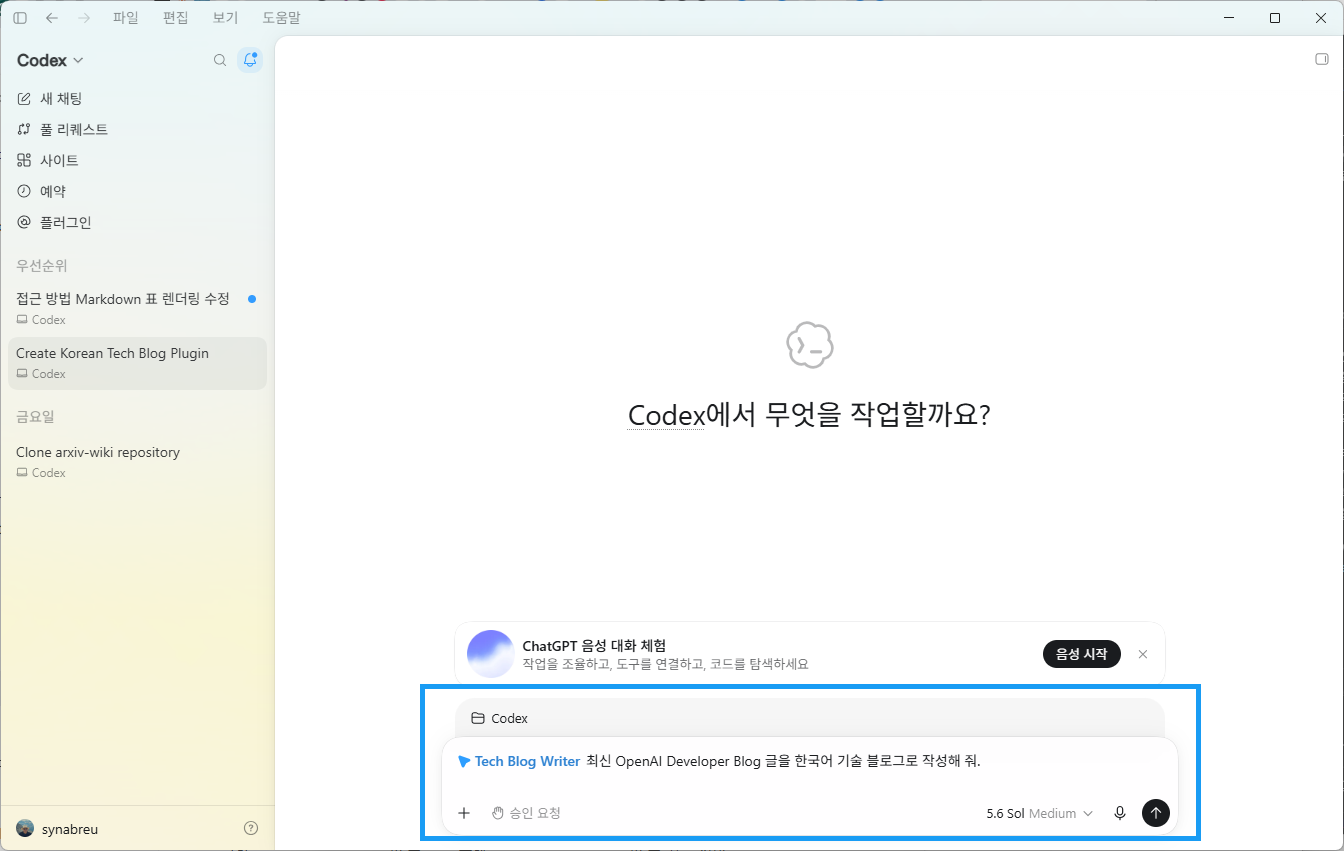
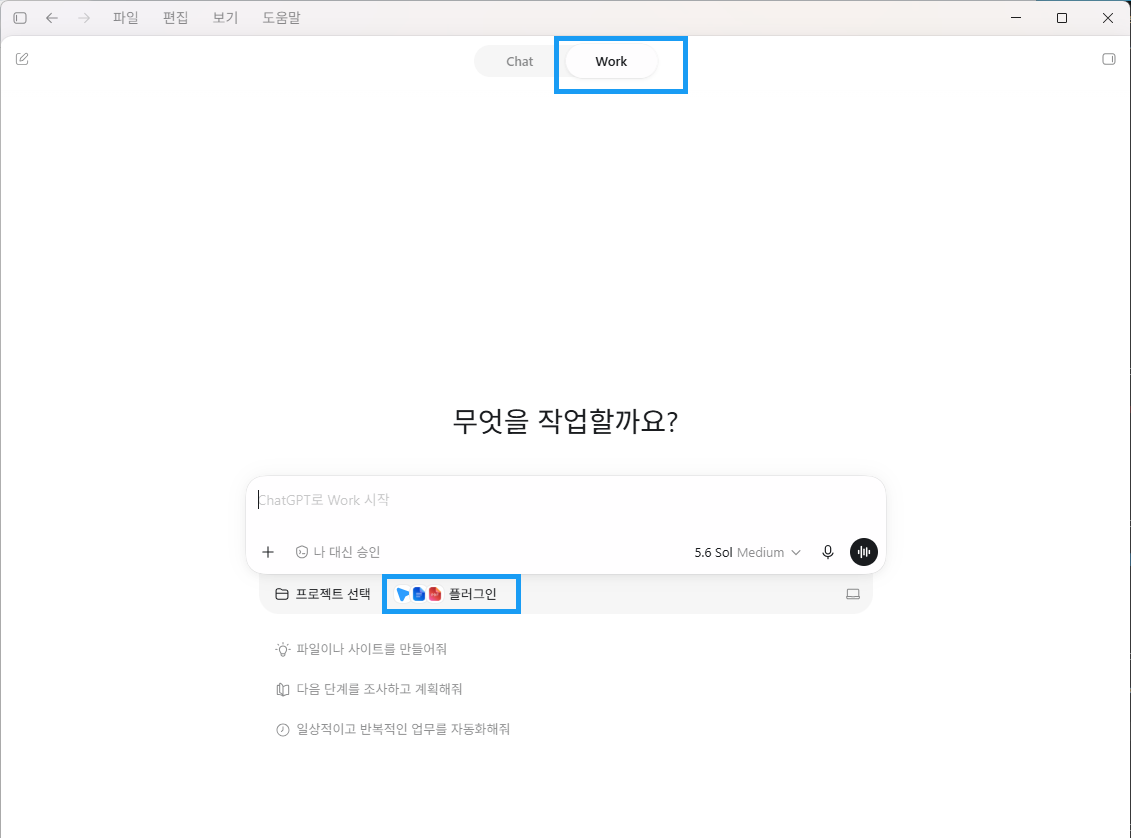
twb update

diff --git a/_posts/2026-08/2026-08-12-[실습] OpenAI용 Hello Plugins 플러그인 개발.md b/_posts/2026-08/2026-08-12-[실습] OpenAI용 Hello Plugins 플러그인 개발.md
@@ -1,12 +1,12 @@
 ---
 title: "[실습] OpenAI용 Hello Plugins 플러그인 개발"
-date: 2026-08-13
+date: 2026-08-12
 tags: [오픈AI, OpenAI, ChatGPT, MCP, Agent, Plugin,  ]
 typora-root-url: ../
 toc: true
 categories: [openai]
 ---
-오픈AI용 플러그인 첫 프로젝트인 Hello Plugins 플러그인 아키텍처를 분석하고 파이썬으로 개발하고 오픈AI Sites 에 배포해서 실행하도록 하는 실습을 해보도록 하겠다. 따라서 “ChatGPT/Codex가 호출할 수 있는 Python MCP 도구”를 구현한 최소 OpenAI Plugin 으로 ChatGPT/Codex의 에이전트가 Plugin의 `hello_plugins` 도구를 발견하고 호출하는 구조이다. 
+오픈AI용 플러그인 첫 프로젝트인 Hello Plugins 플러그인 아키텍처를 분석하고 파이썬으로 개발하고 오픈AI Sites 에 배포해서 실행하도록 하는 실습을 해보도록 하겠다. 따라서 “ChatGPT/Codex가 호출할 수 있는 Python MCP 도구”를 구현한 최소 OpenAI Plugin 으로 ChatGPT/Codex의 에이전트가 Plugin의 `hello_plugins` 도구를 발견하고 호출하는 구조이다.
 
 # 1. 전체 아키텍처
 
@@ -35,12 +35,12 @@ hello-plugins-python/
 
 프로젝트는 크게 네 영역으로 구분된다.
 
-| 영역     | 파일                                         | 역할                |
-| ------ | ------------------------------------------ | ----------------- |
-| 애플리케이션 | `server.py`                                | MCP 서버 및 도구 정의    |
-| 테스트    | `test_server.py`, `verify_mcp.py`          | 함수 및 HTTP 통합 검증   |
-| 패키징    | `requirements.txt`, `pyproject.toml`       | Python 버전과 패키지 정의 |
-| 배포·문서  | `Dockerfile`, `.dockerignore`, `README.md` | 컨테이너 실행과 사용자 안내   |
+| 영역         | 파일                                             | 역할                        |
+| ------------ | ------------------------------------------------ | --------------------------- |
+| 애플리케이션 | `server.py`                                    | MCP 서버 및 도구 정의       |
+| 테스트       | `test_server.py`, `verify_mcp.py`            | 함수 및 HTTP 통합 검증      |
+| 패키징       | `requirements.txt`, `pyproject.toml`         | Python 버전과 패키지 정의   |
+| 배포·문서   | `Dockerfile`, `.dockerignore`, `README.md` | 컨테이너 실행과 사용자 안내 |
 
 # 3. server.py 분석
 
@@ -65,18 +65,17 @@ mcp = FastMCP(
 
 MCP 서버 생성에 대한 각 설정의 의미는 다음과 같다.
 
-| 설정                    | 의미                                 |
-| --------------------- | ---------------------------------- |
-| `"Hello Plugins"`     | MCP 서버 이름                          |
+| 설정                    | 의미                                               |
+| ----------------------- | -------------------------------------------------- |
+| `"Hello Plugins"`     | MCP 서버 이름                                      |
 | `instructions`        | ChatGPT/Codex가 도구를 언제 호출할지 판단하는 지침 |
-| `host`                | 서버가 수신할 네트워크 인터페이스                 |
-| `port`                | 서버 포트                              |
-| `stateless_http=True` | 요청 사이에 서버 세션 상태를 유지하지 않음           |
-| `json_response=True`  | MCP 응답을 JSON 형식으로 반환               |
+| `host`                | 서버가 수신할 네트워크 인터페이스                  |
+| `port`                | 서버 포트                                          |
+| `stateless_http=True` | 요청 사이에 서버 세션 상태를 유지하지 않음         |
+| `json_response=True`  | MCP 응답을 JSON 형식으로 반환                      |
 
 * 환경변수가 없다면 `http://0.0.0.0:8000/mcp` 로 실행 - `0.0.0.0`은 서버가 모든 네트워크 인터페이스에서 요청을 받도록 하는 바인딩 주소이며, 브라우저에 직접 입력하는 목적지는 아니다.
-* 사용자는 일반적으로 `http://localhost:8000/mcp` 주소로 접근  
-
+* 사용자는 일반적으로 `http://localhost:8000/mcp` 주소로 접근
 
 ## 3.2 MCP 도구 등록
 
@@ -95,15 +94,14 @@ MCP 서버 생성에 대한 각 설정의 의미는 다음과 같다.
 
 @mcp.tool 데코레이터는 아래의 Python 함수를 MCP 도구로 등록한다. 도구 메타데이터는 단순 설명이 아니라 ChatGPT/Codex의 도구 선택과 안전 판단에 사용된다. 이 도구는 외부 API, 데이터베이스 또는 파일을 사용하지 않으므로 설정이 정확하다.
 
-| 항목                      | 의미                         |
-| ----------------------- | -------------------------- |
-| `name`                  | 실제 MCP 도구 이름               |
-| `description`           | 도구 사용 목적                   |
-| `title`                 | 사람이 읽기 쉬운 도구 제목            |
-| `readOnlyHint=True`     | 데이터를 변경하지 않는 읽기 전용 도구      |
-| `destructiveHint=False` | 삭제·덮어쓰기 같은 위험 동작 없음        |
+| 항목                      | 의미                                           |
+| ------------------------- | ---------------------------------------------- |
+| `name`                  | 실제 MCP 도구 이름                             |
+| `description`           | 도구 사용 목적                                 |
+| `title`                 | 사람이 읽기 쉬운 도구 제목                     |
+| `readOnlyHint=True`     | 데이터를 변경하지 않는 읽기 전용 도구          |
+| `destructiveHint=False` | 삭제·덮어쓰기 같은 위험 동작 없음             |
 | `openWorldHint=False`   | 외부 시스템이나 공개 데이터에 영향을 주지 않음 |
-
 
 ## 3.3 비즈니스 로직
 
@@ -147,8 +145,7 @@ def test_hello_plugins_returns_exact_greeting() -> None:
 ```
 
 * 검증하는 항목은 함수가 정상적으로 import되는가? 실행 중 예외가 발생하지 않는가? 반환 문자열이 정확한가? 쉼표, 공백, 느낌표까지 동일한가 등이다.
-
-* 실행은 다음과 같다. 
+* 실행은 다음과 같다.
 
 ```
 python -m pytest -q
@@ -161,11 +158,11 @@ python -m pytest -q
 * 도구가 MCP 목록에 등록되는가
 * MCP 요청을 통해 도구가 호출되는가
 
-이 부분은 `verify_mcp.py`가 담당한다. 
+이 부분은 `verify_mcp.py`가 담당한다.
 
 # 5. verify_mcp.py 분석
 
-verify_mcp.py는 실제 서버와 MCP 클라이언트를 함께 실행하는 종단 간 테스트이다. 
+verify_mcp.py는 실제 서버와 MCP 클라이언트를 함께 실행하는 종단 간 테스트이다.
 
 ## 5.1 MCP 클라이언트 연결
 
@@ -184,7 +181,7 @@ async with ClientSession(read, write) as session:
     await session.initialize()
 ```
 
-이 과정에서 클라이언트와 서버는 MCP 프로토콜 버전, 서버 이름과 기능, 지원하는 도구 및 기능, 서버 지침 등 정보를 교환한다. 
+이 과정에서 클라이언트와 서버는 MCP 프로토콜 버전, 서버 이름과 기능, 지원하는 도구 및 기능, 서버 지침 등 정보를 교환한다.
 
 ## 5.3 도구 검색 검증
 
@@ -202,7 +199,7 @@ result = await session.call_tool("hello_plugins", {})
 assert result.content[0].text == "Hello, Plugins!"
 ```
 
-빈 입력 객체 {}로 도구를 호출한 후 첫 번째 텍스트 콘텐츠를 검사한다. 이 테스트는 다음 전체 경로를 검증한다. 
+빈 입력 객체 {}로 도구를 호출한 후 첫 번째 텍스트 콘텐츠를 검사한다. 이 테스트는 다음 전체 경로를 검증한다.
 
 ```
 서버 시작
@@ -288,6 +285,7 @@ requirements-dev.txt
 ```
 
 예:
+
 ```
 # requirements.txt
 mcp==1.26.0
@@ -355,13 +353,13 @@ ENV PORT=8000
 EXPOSE 8000
 ```
 
-컨테이너 외부에서 접근할 수 있도록 모든 인터페이스의 8000번 포트에서 수신한다. 
+컨테이너 외부에서 접근할 수 있도록 모든 인터페이스의 8000번 포트에서 수신한다.
 
 ```
 CMD ["python", "server.py"]
 ```
 
-컨테이너가 시작되면 MCP 서버가 실행된다. 
+컨테이너가 시작되면 MCP 서버가 실행된다.
 실행:
 
 ```
@@ -396,16 +394,16 @@ verify_mcp.py
 
 # 9. Plugin과 Agent의 정확한 관계
 
-| 개념                | 이 프로젝트의 적용 여부 |
-| ----------------- | ------------- |
-| OpenAI Plugin     | 적용            |
-| MCP 서버            | 적용            |
-| MCP 도구            | 적용            |
-| OpenAI Agents SDK | 사용하지 않음       |
-| 자체 LLM 호출         | 없음            |
-| Skill             | 없음            |
-| 사용자 인증            | 없음            |
-| 사용자 정의 UI         | 없음            |
+| 개념              | 이 프로젝트의 적용 여부 |
+| ----------------- | ----------------------- |
+| OpenAI Plugin     | 적용                    |
+| MCP 서버          | 적용                    |
+| MCP 도구          | 적용                    |
+| OpenAI Agents SDK | 사용하지 않음           |
+| 자체 LLM 호출     | 없음                    |
+| Skill             | 없음                    |
+| 사용자 인증       | 없음                    |
+| 사용자 정의 UI    | 없음                    |
 
 “Agent Plugin”이라는 표현은 에이전트가 사용할 수 있는 Plugin이라는 의미로는 맞다. 그러나 독립적인 Agent를 Python으로 실행하는 프로젝트는 아니다. 독립적인 Python Agent를 만들려면 별도로 다음 구조를 필요로 한다.
 
@@ -461,4 +459,3 @@ OpenAI Agents SDK Agent
 * 헬스 체크 추가
 * 공개 HTTPS 환경 배포
 * 필요하면 Skill 또는 Agents SDK Agent 추가
-

diff --git a/_posts/2026-08/2026-08-13-[실습] OpenAI용 Tech Blog Writer 플러그인(2)-실행.md b/_posts/2026-08/2026-08-13-[실습] OpenAI용 Tech Blog Writer 플러그인(2)-실행.md
@@ -1,5 +1,5 @@
 ---
-title: "2026-08-13-[실습] OpenAI용 Tech Blog Writer 플러그인(2)-실행.md"
+title: "[실습] OpenAI용 Tech Blog Writer 플러그인(2)-실행.md"
 date: 2026-08-13
 tags: [오픈AI, OpenAI, ChatGPT, MCP, Agent, Plugin,  ]
 typora-root-url: ../
@@ -11,31 +11,31 @@ categories: [openai]
 
 플러그인 전체 화면이 필요 -> 검색
 
-# 1. 플러그인 메뉴 선택
+# 1. Tech Blog Writer 플러그인 메뉴 선택
 
-![TechWriterBlog-01]({{ '/images/2026-08/TechWriterBlog-01.png' | relative_url }})
+![TechWriterBlog-01]({{ '/images/2026-08/TechWriterBlog-01.png' | relative_url }}){: width="50%"}
 
 ChatGPT 서비스에서 PC, 맥, 웹 서비스 운영체제에 관계없이 왼쪽 메뉴의 서브 메뉴에 있는 `플러그인(Plugins)' 메뉴를 선택하라. 참고로 위의 그림에서 파란색 영역으로 표시했다.  
 
 
-# 2. 플러그인 실행하기 
+# 2. Tech Blog Writer 플러그인 설치하려면?
 
-직접 만든 OpenAI Codex Plugin "Tech Blog Writer"가 정상적으로 설치되어 Codex의 플러그인 목록에 등록된 상태, 플로그인 버튼 클릭.  
+![TechWriterBlog-02]({{ '/images/2026-08/TechWriterBlog-02.png' | relative_url }}){: width="50%"}
 
-![TechWriterBlog-02]({{ '/images/2026-08/TechWriterBlog-02.png' | relative_url }})
+OpenAI Codex 에서 직접 만든 "Tech Blog Writer" 플러그인을 내 서비스에 설치하려면 오른쪽 화면 위에 보듯, `플러그인 설치` 버튼을 클릭하기만 하면 된다. 
 
-# 3. 플러그인 실행
+# 3. Tech Blog Writer 플러그인 사용하기
 
-Codex가 해당 Plugin을 로컬 환경에 등록하고 Agent 실행 대상으로 연결한 상태
+![TechWriterBlog-03]({{ '/images/2026-08/TechWriterBlog-03.png' | relative_url }}){: width="50%"}
 
-![TechWriterBlog-03]({{ '/images/2026-08/TechWriterBlog-03.png' | relative_url }})
+그러면 위에서 보는 [그림]처럼 이제 Codex가 해당 Plugin을 로컬 환경에 등록하고 Agent 실행 대상으로 연결한 상태가 된다. 
 
 
-# 4. 사용 예시
+# 4. ChatGPT Work 모드에서 플러그인 선택
 
-TechWriterBlog-03
+![TechWriterBlog-04]({{ '/images/2026-08/TechWriterBlog-04.png' | relative_url }}){: width="50%"}
 
-![TechWriterBlog-04]({{ '/images/2026-08/TechWriterBlog-04.png' | relative_url }})
+
 
 # 5. 실행 결과 
 
